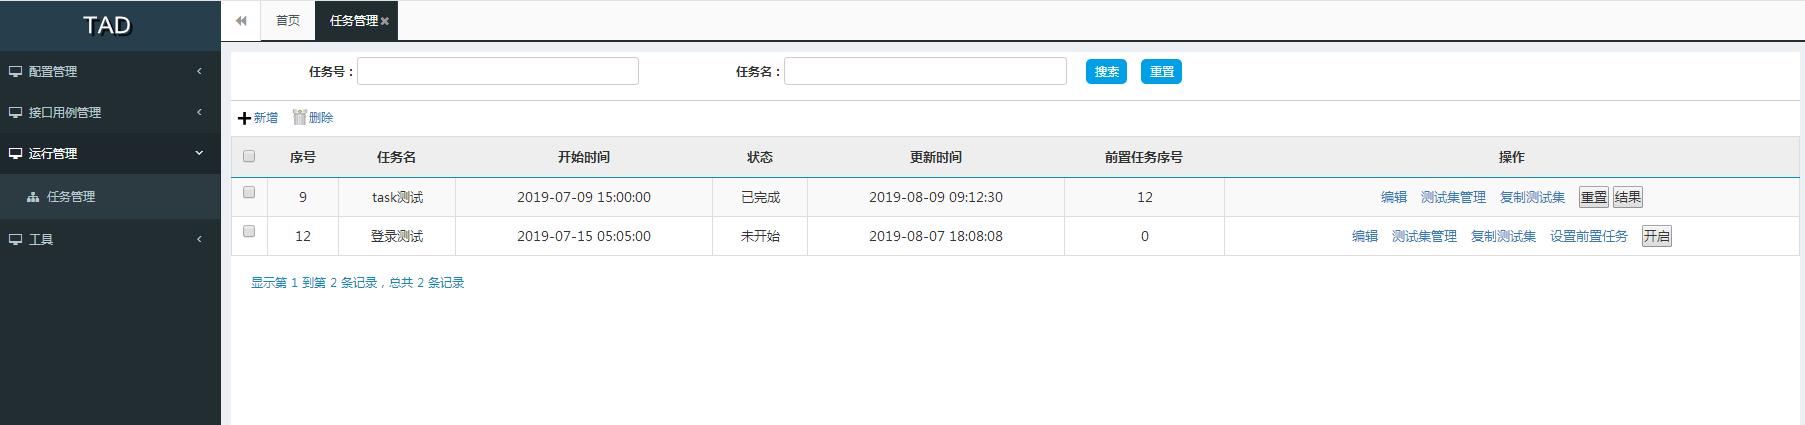
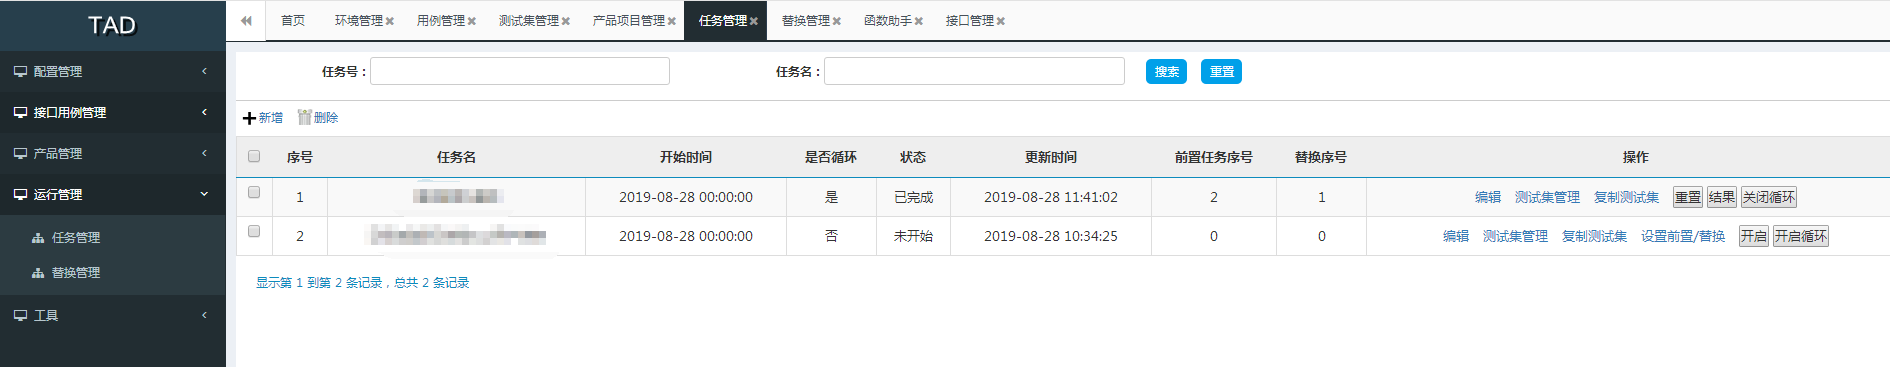
Site updated: 2019-08-29 13:58:49

diff --git a/2019/07/31/AutoTest/index.html b/2019/07/31/AutoTest/index.html
@@ -19,12 +19,12 @@ var _hmt = _hmt || [];
   
   <title>自研接口自动化测试平台 | 记录</title>
   <meta name="viewport" content="width=device-width, initial-scale=1, maximum-scale=1">
-  <meta name="description" content="前言作者很想吐槽一句，前后端分离的情况下，solo项目真心累，尤其是我这种前端渣渣，所以界面丑请多多包含！ 环境该项目测试信息管理与测试执行是分开的，可分开部署运行 JAVA 1.8MYSQL测试平台为war（Spring+SpringMVC+meavn）测试执行为jar（Spring+meavn） 项目介绍  环境管理 增删查改测试环境地址      接口管理 增删查改接口API地址，并关联对应">
+  <meta name="description" content="前言作者很想吐槽一句，前后端分离的情况下，solo项目真心累，尤其是我这种前端渣渣，所以界面丑请多多包含！ 源码地址https://github.com/shirleydl/ATest 环境该项目测试信息管理与测试执行是分开的，可分开部署运行 JAVA 1.8MYSQL测试平台为war（Spring+SpringMVC+meavn）测试执行为jar（Spring+meavn） 功能介绍：环境管理：">
 <meta property="og:type" content="article">
 <meta property="og:title" content="自研接口自动化测试平台">
 <meta property="og:url" content="http://shirleydl.github.io/2019/07/31/AutoTest/index.html">
 <meta property="og:site_name" content="记录">
-<meta property="og:description" content="前言作者很想吐槽一句，前后端分离的情况下，solo项目真心累，尤其是我这种前端渣渣，所以界面丑请多多包含！ 环境该项目测试信息管理与测试执行是分开的，可分开部署运行 JAVA 1.8MYSQL测试平台为war（Spring+SpringMVC+meavn）测试执行为jar（Spring+meavn） 项目介绍  环境管理 增删查改测试环境地址      接口管理 增删查改接口API地址，并关联对应">
+<meta property="og:description" content="前言作者很想吐槽一句，前后端分离的情况下，solo项目真心累，尤其是我这种前端渣渣，所以界面丑请多多包含！ 源码地址https://github.com/shirleydl/ATest 环境该项目测试信息管理与测试执行是分开的，可分开部署运行 JAVA 1.8MYSQL测试平台为war（Spring+SpringMVC+meavn）测试执行为jar（Spring+meavn） 功能介绍：环境管理：">
 <meta property="og:locale" content="default">
 <meta property="og:image" content="http://shirleydl.github.io/images/AutoTest_environment.png">
 <meta property="og:image" content="http://shirleydl.github.io/images/AutoTest_interface.png">
@@ -35,14 +35,17 @@ var _hmt = _hmt || [];
 <meta property="og:image" content="http://shirleydl.github.io/images/AutoTest_testSuiteWithCase.png">
 <meta property="og:image" content="http://shirleydl.github.io/images/AutoTest_testSuite_bind.png">
 <meta property="og:image" content="http://shirleydl.github.io/images/AutoTest_testSuite_result.png">
+<meta property="og:image" content="http://shirleydl.github.io/images/ATest_productList.png">
+<meta property="og:image" content="http://shirleydl.github.io/images/ATest_productWithSuite.png">
 <meta property="og:image" content="http://shirleydl.github.io/images/AutoTest_task_list.png">
 <meta property="og:image" content="http://shirleydl.github.io/images/AutoTest_taskWithTestSuite.png">
 <meta property="og:image" content="http://shirleydl.github.io/images/AutoTest_task_result.png">
+<meta property="og:image" content="http://shirleydl.github.io/images/ATest_replace.png">
 <meta property="og:image" content="http://shirleydl.github.io/images/AutoTest_function.png">
-<meta property="og:updated_time" content="2019-08-09T05:45:10.784Z">
+<meta property="og:updated_time" content="2019-08-29T05:55:16.706Z">
 <meta name="twitter:card" content="summary">
 <meta name="twitter:title" content="自研接口自动化测试平台">
-<meta name="twitter:description" content="前言作者很想吐槽一句，前后端分离的情况下，solo项目真心累，尤其是我这种前端渣渣，所以界面丑请多多包含！ 环境该项目测试信息管理与测试执行是分开的，可分开部署运行 JAVA 1.8MYSQL测试平台为war（Spring+SpringMVC+meavn）测试执行为jar（Spring+meavn） 项目介绍  环境管理 增删查改测试环境地址      接口管理 增删查改接口API地址，并关联对应">
+<meta name="twitter:description" content="前言作者很想吐槽一句，前后端分离的情况下，solo项目真心累，尤其是我这种前端渣渣，所以界面丑请多多包含！ 源码地址https://github.com/shirleydl/ATest 环境该项目测试信息管理与测试执行是分开的，可分开部署运行 JAVA 1.8MYSQL测试平台为war（Spring+SpringMVC+meavn）测试执行为jar（Spring+meavn） 功能介绍：环境管理：">
 <meta name="twitter:image" content="http://shirleydl.github.io/images/AutoTest_environment.png">
   
   
@@ -116,60 +119,77 @@ var _hmt = _hmt || [];
  
   	
   	
-  	  <p><strong>前言</strong><br>作者很想吐槽一句，前后端分离的情况下，solo项目真心累，尤其是我这种前端渣渣，所以界面丑请多多包含！</p>
-<p><strong>环境</strong><br>该项目测试信息管理与测试执行是分开的，可分开部署运行</p>
+  	  <h2 id="前言"><a href="#前言" class="headerlink" title="前言"></a>前言</h2><p>作者很想吐槽一句，前后端分离的情况下，solo项目真心累，尤其是我这种前端渣渣，所以界面丑请多多包含！</p>
+<h2 id="源码地址"><a href="#源码地址" class="headerlink" title="源码地址"></a>源码地址</h2><p><a href="https://github.com/shirleydl/ATest" target="_blank" rel="noopener">https://github.com/shirleydl/ATest</a></p>
+<h2 id="环境"><a href="#环境" class="headerlink" title="环境"></a>环境</h2><p>该项目测试信息管理与测试执行是分开的，可分开部署运行</p>
 <p>JAVA 1.8<br>MYSQL<br>测试平台为war（Spring+SpringMVC+meavn）<br>测试执行为jar（Spring+meavn）</p>
-<p><strong>项目介绍</strong></p>
-<ul>
-<li>环境管理<ul>
-<li>增删查改测试环境地址</li>
-</ul>
-</li>
-</ul>
+<h2 id="功能介绍："><a href="#功能介绍：" class="headerlink" title="功能介绍："></a>功能介绍：</h2><h3 id="环境管理："><a href="#环境管理：" class="headerlink" title="环境管理："></a>环境管理：</h3><p>增删查改环境信息</p>
 <p><img src="/images/AutoTest_environment.png" alt="AutoTest_environment"></p>
-<ul>
-<li>接口管理<ul>
-<li>增删查改接口API地址，并关联对应测试环境</li>
-</ul>
-</li>
-</ul>
+<h3 id="接口管理"><a href="#接口管理" class="headerlink" title="接口管理"></a>接口管理</h3><p>增删查改接口API地址，并关联对应测试环境</p>
 <p><img src="/images/AutoTest_interface.png" alt="AutoTest_interface"></p>
-<ul>
-<li>用例管理<ul>
-<li>增删查改测试用例信息，包括关联的接口、请求头、请求方法、请求参数、断言信息、用例变量信息等，所有值可使用函数关键字进行取值，详细可看函数说明</li>
-<li>复制测试用例信息</li>
-<li>执行测试用例进行调试</li>
-</ul>
+<h3 id="用例管理"><a href="#用例管理" class="headerlink" title="用例管理"></a>用例管理</h3><ol>
+<li><p>增删查改用例信息</p>
 </li>
-</ul>
+<li><p>请求方法支持：get、post（form）、post（raw）</p>
+</li>
+<li><p>断言方法支持：等于、不等于、包含、不包含、正则匹配、以。。。开始，以。。。结束</p>
+</li>
+<li><p>请求头值、请求内容、断言信息、用例变量都支持系统给定或自定义扩展函数引入</p>
+</li>
+<li><p>支持用例内全局变量使用</p>
+</li>
+<li><p>支持手动执行用例并返回结果，可针对用例进行调试</p>
+</li>
+<li><p>支持复制用例</p>
+</li>
+</ol>
 <p><img src="/images/AutoTest_interfaceCase_list.png" alt="AutoTest_interfaceCase_list"></p>
 <p><img src="/images/AutoTest_interfaceCase_detail.png" alt="AutoTest_interfaceCase_detail"></p>
 <p><img src="/images/AutoTest_interfaceCase_result.png" alt="AutoTest_interfaceCase_result"></p>
+<h3 id="测试集管理"><a href="#测试集管理" class="headerlink" title="测试集管理"></a>测试集管理</h3><ol>
+<li><p>增删查改测试集信息</p>
+</li>
+<li><p>用例管理：</p>
+</li>
+</ol>
 <ul>
-<li>测试集管理<ul>
-<li>增删查改测试集及里面相应的用例内容，包括用例信息、用例执行优先级、要求响应时间、赋值变量给该测试集里其他测试用例使用等等，变量值可使用函数关键字进行取值，详细可看函数说明</li>
-<li>复制测试集里面用例信息添加到另一个测试集</li>
-<li>执行测试集进行调试</li>
-</ul>
+<li><p>支持增删查改关联的测试用例及其他执行信息</p>
+</li>
+<li><p>支持为每个关联的用例信息绑定、引入测试集全局变量</p>
+</li>
+<li><p>支持手动执行测试集并返回结果，可针对测试集进行调试</p>
 </li>
 </ul>
+<ol start="3">
+<li>支持复制测试集里面的用例信息到其他测试集里</li>
+</ol>
 <p><img src="/images/AutoTest_testSuite_list.png" alt="AutoTest_testSuite_list"></p>
 <p><img src="/images/AutoTest_testSuiteWithCase.png" alt="AutoTest_testSuiteWithCase"></p>
 <p><img src="/images/AutoTest_testSuite_bind.png" alt="AutoTest_testSuite_bind"></p>
 <p><img src="/images/AutoTest_testSuite_result.png" alt="AutoTest_testSuite_result"></p>
-<ul>
-<li>任务管理<ul>
-<li>增删查改测试任务及里面相应的测试集，包括测试集执行优先级、任务定时执行时间设置、任务执行状态，任务执行结果列表及明细（执行器每10分钟执行一次）</li>
-<li>复制任务里面测试集信息添加到另一个任务</li>
-</ul>
+<h3 id="产品项目管理"><a href="#产品项目管理" class="headerlink" title="产品项目管理"></a>产品项目管理</h3><ol>
+<li><p>增删查改产品项目信息</p>
 </li>
-</ul>
+<li><p>测试集管理：增删查改关联的测试集，可批量添加测试集到指定任务里</p>
+</li>
+</ol>
+<p><img src="/images/ATest_productList.png" alt="ATest_productList"><br><img src="/images/ATest_productWithSuite.png" alt="ATest_productWithSuite"></p>
+<h3 id="任务管理"><a href="#任务管理" class="headerlink" title="任务管理"></a>任务管理</h3><ol>
+<li><p>增删查改任务信息</p>
+</li>
+<li><p>测试集管理：增删查改关联的测试集</p>
+</li>
+<li><p>支持复制任务里面的测试集信息到其他任务里</p>
+</li>
+<li><p>支持设置前置任务，在执行任务前执行，并分享所有测试集变量值到本次测试任务里执行使用（注意变量名不要重复，否则会被覆盖）</p>
+</li>
+</ol>
 <p><img src="/images/AutoTest_task_list.png" alt="AutoTest_task_list"></p>
 <p><img src="/images/AutoTest_taskWithTestSuite.png" alt="AutoTest_task_result"></p>
 <p><img src="/images/AutoTest_task_result.png" alt="AutoTest_task_result"></p>
-<ul>
-<li>函数助手：编写接口用例、赋值测试集变量时可调用的关键字</li>
-</ul>
+<h3 id="替换管理"><a href="#替换管理" class="headerlink" title="替换管理"></a>替换管理</h3><p>增删替换信息（替换环境地址、替换用例变量值）</p>
+<p><img src="/images/ATest_replace.png" alt="ATest_replace"></p>
+<h3 id="函数助手："><a href="#函数助手：" class="headerlink" title="函数助手："></a>函数助手：</h3><p>可查看系统给定的所有函数名及使用格式</p>
 <p><img src="/images/AutoTest_function.png" alt="AutoTest_function"></p>
 <p><strong>问题反馈</strong><br>该项目为长期迭代项目，如有兴趣欢迎qq或邮箱提建议<br>邮件(3318549466#qq.com, 把#换成@)<br>QQ: 3318549466</p>
 

diff --git a/index.html b/index.html
@@ -150,7 +150,7 @@ var _hmt = _hmt || [];
  
   	
   	
-  	  <p><strong>前言</strong><br>作者很想吐槽一句，前后端分离的情况下，solo项目真心累，尤其是我这种前端渣渣，所以界面丑请多多包含！</p>
+  	  <h2 id="前言"><a href="#前言" class="headerlink" title="前言"></a>前言</h2><p>作者很想吐槽一句，前后端分离的情况下，solo项目真心累，尤其是我这种前端渣渣，所以界面丑请多多包含！</p>
   	  
         <p class="article-more-link">
           <a href="/2019/07/31/AutoTest/#more">Read More</a>
